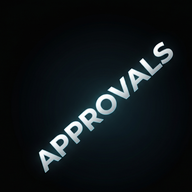
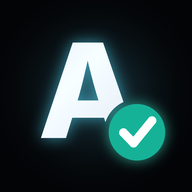
v0.4.3: ícono nuevo (A + palomita) legible en tamaño chico
Claude-Session: https://claude.ai/code/session_015pDKzEtN7WzB2oEsmqUDCa

diff --git a/index.html b/index.html
@@ -6,8 +6,8 @@
 <title>Seguimiento a Aceptados</title>
 <link rel="manifest" href="manifest.json">
 <meta name="theme-color" content="#0f3d6e">
-<link rel="icon" href="icons/favicon-32.png?v=3">
-<link rel="apple-touch-icon" href="icons/apple-touch-icon.png?v=3">
+<link rel="icon" href="icons/favicon-32.png?v=4">
+<link rel="apple-touch-icon" href="icons/apple-touch-icon.png?v=4">
 <style>
 :root{--bg:#f3f4f6;--card:#fff;--ink:#1d2330;--mut:#6b7280;--line:#e5e7eb;--pri:#0f3d6e;--pri2:#1d5fa3;--ok:#15803d;--okb:#dcfce7;--warn:#b45309;--warnb:#fef3c7;--bad:#b91c1c;--badb:#fee2e2;--bad2:#7f1d1d;--chip:#eef2f7}
 *{box-sizing:border-box}
@@ -127,7 +127,7 @@ footer{text-align:center;font-size:11px;color:var(--mut);padding:16px}
 <body>
 <header>
   <div class="hrow">
-    <div class="htitle">Seguimiento a Aceptados<small>v0.4.2</small><small id="who" style="display:block;margin:0;opacity:.85"></small></div>
+    <div class="htitle">Seguimiento a Aceptados<small>v0.4.3</small><small id="who" style="display:block;margin:0;opacity:.85"></small></div>
     <select id="vista" class="hsel" title="Vista" hidden></select>
     <button class="hbtn" id="bSync" hidden>☁</button>
     <button class="hbtn" id="bImport" hidden>📥 Cargar export</button>
@@ -161,7 +161,7 @@ footer{text-align:center;font-size:11px;color:var(--mut);padding:16px}
 <script>
 'use strict';
 /* ================= Config ================= */
-const VER='0.4.2', KEY='segAceptados_v1', KEYV='segAceptados_vista';
+const VER='0.4.3', KEY='segAceptados_v1', KEYV='segAceptados_vista';
 const SUCS=['CI-OBLATOS','CI-TLAJOMUCO','CI-TLAQUEPAQUE','CI-TONALA','CI-ZAPOPAN'];
 const ETAPAS={
   'Visita asesor':{fecha:'req'},

diff --git a/sw.js b/sw.js
@@ -12,14 +12,14 @@
 //
 // IMPORTANTE: subir CACHE_VERSION cada vez que se publique un cambio grande,
 // para que los cachés viejos se limpien solos en el siguiente open.
-const CACHE_VERSION = 'v2';
+const CACHE_VERSION = 'v3';
 const CACHE_NAME = `seguimiento-aceptados-${CACHE_VERSION}`;
 const CORE_ASSETS = [
   './',
   './index.html',
   './manifest.json',
-  './icons/icon-192.png?v=3',
-  './icons/icon-512.png?v=3',
+  './icons/icon-192.png?v=4',
+  './icons/icon-512.png?v=4',
 ];
 
 self.addEventListener('install', (event) => {
